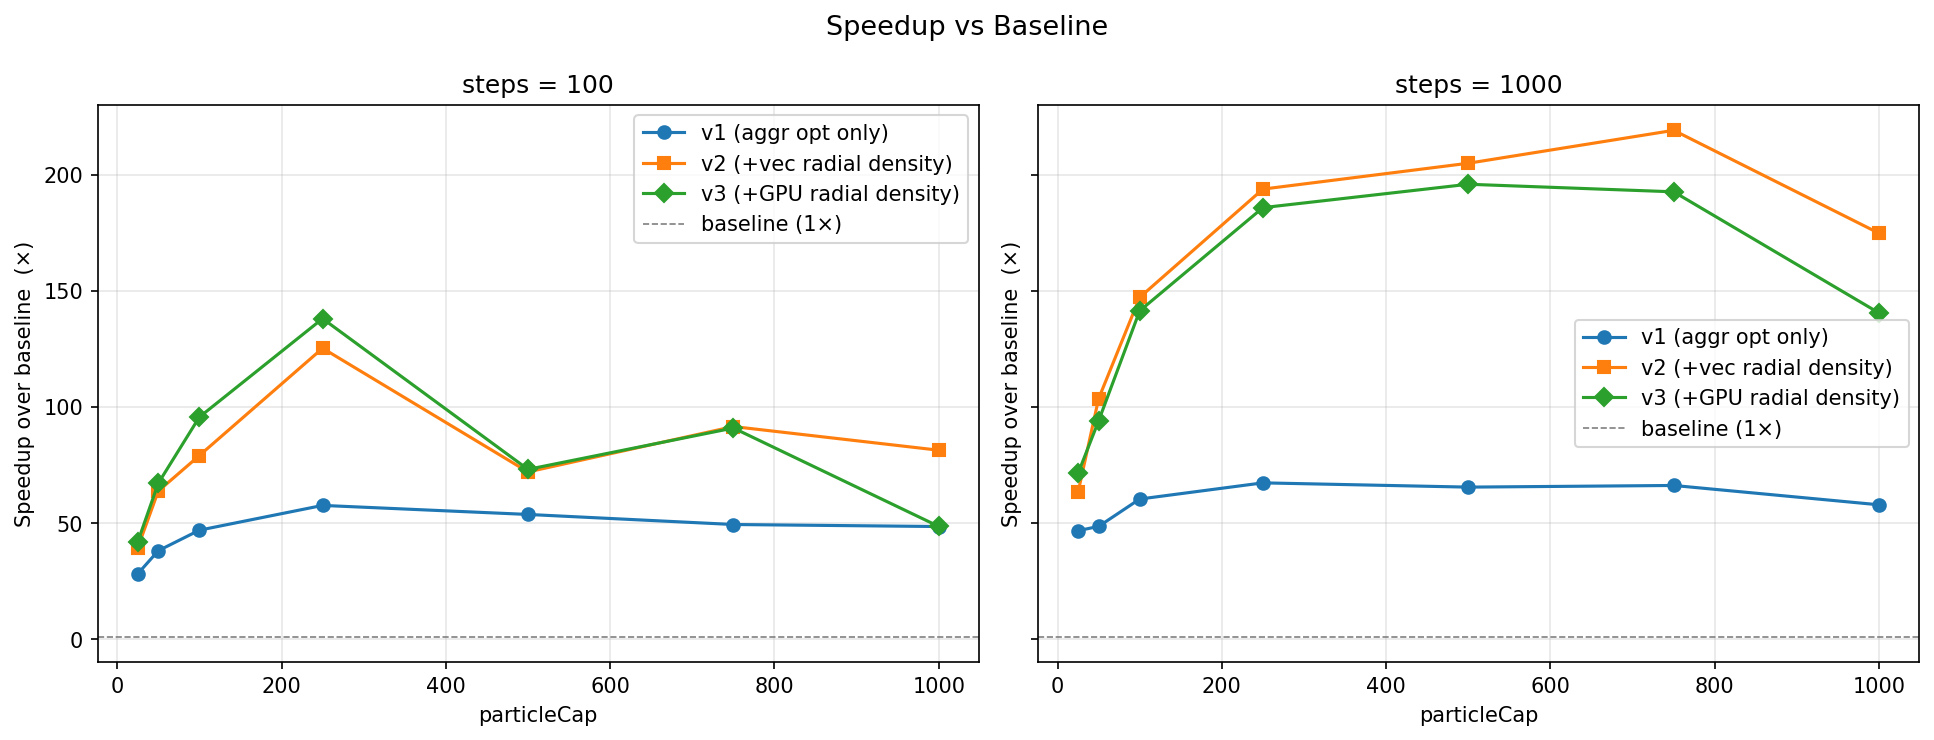
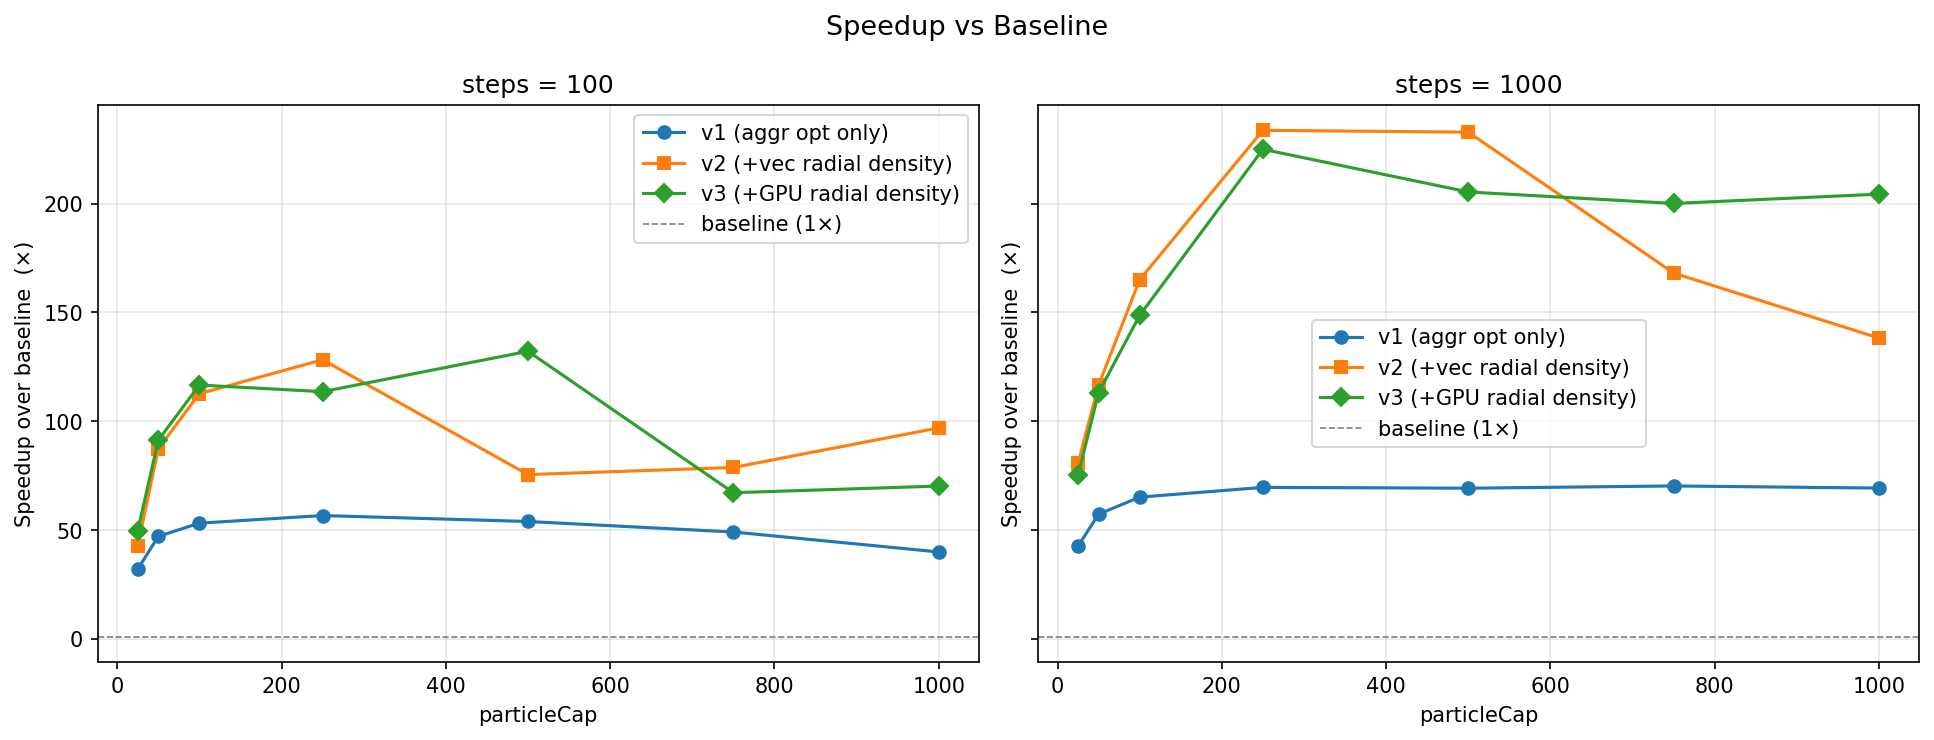
Probably last version, got good results for th GPU

diff --git a/optimized_code/DLA2DAggregate_optimized_v3.py b/optimized_code/DLA2DAggregate_optimized_v3.py
@@ -1,11 +1,13 @@
 import numpy as np
 import time
-import optimization_pybind11 as opt_cpp
 import cupy as cp
 
 length = 1250
 movements = np.array([[1, 0], [-1, 0], [0, 1], [0, -1]])
+movements_cp = cp.array(movements)
 radiusDensity = np.linspace(2, 90, 10)
+
+
 
 _CIRCLE_MASKS = []
 for _r in radiusDensity:
@@ -17,19 +19,24 @@ _MAX_RADIUS = int(radiusDensity[-1])  # = 90; used as pad width
 
 
 def initialise(length, movements):
-    lattice = np.zeros((length + 1, length + 1))
-    initialSeed = [length / 2, length / 2]
-    lattice[int(initialSeed[0]), int(initialSeed[1])] = 1
-    stickyInitial = np.nonzero(lattice)
-    stickySites = []
+    movements_cp = cp.array(movements)
+    
+    lattice = cp.zeros((length + 1, length + 1))
+    initialSeed = [length // 2, length // 2]
+    lattice[initialSeed[0], initialSeed[1]] = 1
+    
+    stickyInitial = cp.nonzero(lattice)
+    r0 = int(stickyInitial[0][0].get())
+    c0 = int(stickyInitial[1][0].get())
+    
+    stickyLattice = cp.zeros((length + 1, length + 1))
     for n in range(4):
-        stickySites.append(
-            (stickyInitial[0][0], stickyInitial[1][0]) + movements[n]
-        )
-    stickyLattice = np.zeros((length + 1, length + 1))
-    for n in range(4):
-        stickyLattice[stickySites[n][0], stickySites[n][1]] = 1
+        dr, dc = int(movements[n][0]), int(movements[n][1])
+        nr, nc = r0 + dr, c0 + dc
+        stickyLattice[nr, nc] = 1
+    
     return lattice, stickyLattice
+
 
 def pick_starting_position(radius):
     startingPosition = np.zeros(2)
@@ -42,92 +49,93 @@ def pick_starting_position(radius):
     return startingPosition
 
 
-def generate_paths_gpu(n_walkers, steps, startingPositions):
-    directions = cp.random.randint(0, 4, (n_walkers, steps - 1))
-    step_vectors = cp.asarray(movements)[directions]  # (n_walkers, steps-1, 2)
-    paths = cp.empty((n_walkers, steps, 2), dtype=cp.int32)
-    paths[:, 0, :] = cp.asarray(startingPositions)
-    paths[:, 1:, :] = startingPositions[:, None, :] + cp.cumsum(step_vectors, axis=1)
-    return paths  # stays on GPU
-
-def generate_path(steps, startingPosition):
-    direction = np.random.choice(4, steps - 1)
-    stepVectors = movements[direction]
-    path = np.empty((steps, 2))
-    path[0] = startingPosition
-    path[1:] = startingPosition + np.cumsum(stepVectors, axis=0)
+def generate_path_gpu(steps, startingPosition):
+    direction = cp.random.randint(0, 4, steps - 1)
+    stepVectors = movements_cp[direction]
+    start = cp.array(startingPosition)
+    path = cp.empty((steps, 2))
+    path[0] = start
+    path[1:] = start + cp.cumsum(stepVectors, axis=0)
     return path
 
 
 def particle_collision(collisionIdx, path, lattice, stickyLattice,
                        particleNumber, occupiedPositions):
-    cr, cc = int(path[collisionIdx, 0]), int(path[collisionIdx, 1])
+    cr = int(path[collisionIdx, 0].get())
+    cc = int(path[collisionIdx, 1].get())
     lattice[cr, cc] = particleNumber + 1
     occupiedPositions.add((cr, cc))
-    maxIdx = length
     for dr, dc in movements:
-        nr, nc = cr + dr, cc + dc
-        if (0 <= nr <= maxIdx and 0 <= nc <= maxIdx
-                and (nr, nc) not in occupiedPositions):
+        nr, nc = cr + int(dr), cc + int(dc)
+        if 0 <= nr <= length and 0 <= nc <= length and (nr, nc) not in occupiedPositions:
             stickyLattice[nr, nc] = 1
     stickyLattice[cr, cc] = 0
     return lattice, stickyLattice
 
-stickyLattice_gpu = cp.asarray(stickyLattice)
-
-def check_collisions_gpu(paths_gpu, stickyLattice_gpu, maxIdx):
-    rows = cp.clip(paths_gpu[:, :, 0], 0, maxIdx)
-    cols = cp.clip(paths_gpu[:, :, 1], 0, maxIdx)
-    hits = stickyLattice_gpu[rows, cols] == 1  # (n_walkers, steps)
-    first_hits = cp.argmax(hits, axis=1)        # first collision per walker
-    hit_mask = hits.any(axis=1)                 # which walkers actually hit
-    return first_hits, hit_mask
-
 
 def lattice_radius_check(occupiedPositions, length, radius, killRadius):
     center = length / 2
-    positions = cp.array(list(occupiedPositions))
-    distances = cp.sqrt(
+    positions = np.array(list(occupiedPositions))
+    distances = np.sqrt(
         (positions[:, 0] - center) ** 2 + (positions[:, 1] - center) ** 2
     )
-    latticeRadiusMax = float(distances.max())
+    latticeRadiusMax = distances.max()
     if latticeRadiusMax > radius:
-        killRadius = float(latticeRadiusMax * 2)
-        radius = float(latticeRadiusMax * 1.5)
+        radius = latticeRadiusMax * 1.5
+        killRadius = latticeRadiusMax * 2
     return latticeRadiusMax, radius, killRadius
 
 
 def kill_check(steps, path, length, startingPosition, moving, killRadius):
-    killCheck = np.sqrt(
+    killCheck = cp.sqrt(
         ((path[:, 0] - length / 2) ** 2) + ((path[:, 1] - length / 2) ** 2)
     )
-    toKill = np.any(killCheck > killRadius)
+    toKill = bool(cp.any(killCheck > killRadius))
     if toKill:
         return 1, 0, startingPosition
-    return 0, moving, path[-1]
+    return 0, moving, path[-1].get()
 
+def _radial_density_vectorized(lattice, particleCoords, particleCap):
+    """
+    Opt-4 + Opt-5: fully vectorized radial density C(r).
 
-import cupy as cp
+    Opt-4 – Sub-lattice extraction
+        Pad the lattice once by _MAX_RADIUS so every 2-D slice is always
+        in-bounds. Inside the loop, extract each sub-lattice with a single
+        2-D NumPy slice instead of a per-row Python loop.
 
-# Move precomputed masks to GPU once at startup
-_CIRCLE_MASKS_GPU = [cp.asarray(m) for m in _CIRCLE_MASKS]
+    Opt-5 – Circle counting
+        Apply the pre-computed boolean mask directly to the sub-array and
+        count non-zero elements with np.count_nonzero, eliminating both the
+        coordinate-copy loop and the per-element counting loop.
+    """
 
-def _radial_density_gpu(lattice, particleCoords, particleCap):
-    padded = cp.pad(cp.asarray(lattice), _MAX_RADIUS, mode='constant')
-    filledDensityStore = cp.zeros((10, particleCap))
+    padded = np.pad(lattice, _MAX_RADIUS, mode='constant', constant_values=0)
+
+    filledDensityStore = np.zeros((10, particleCap))
 
     for particle in range(particleCap - 1):
         pr = int(particleCoords[particle, 0]) + _MAX_RADIUS
         pc = int(particleCoords[particle, 1]) + _MAX_RADIUS
+
+        filledDensity = np.zeros(10)
         for width in range(10):
             rc   = int(radiusDensity[width])
-            mask = _CIRCLE_MASKS_GPU[width]
-            sub  = padded[pr - rc: pr + rc + 1, pc - rc: pc + rc + 1]
-            total = int(mask.sum())
-            filled = int(cp.count_nonzero(sub[mask]))
-            filledDensityStore[width, particle] = filled / total if total > 0 else 0.0
+            mask = _CIRCLE_MASKS[width]
 
-    return cp.asnumpy(filledDensityStore.mean(axis=1)), cp.asnumpy(filledDensityStore)
+            sub = padded[pr - rc: pr + rc + 1,
+                         pc - rc: pc + rc + 1]
+
+            values = sub[mask]
+            filled = int(np.count_nonzero(values))
+            total = len(values)
+            filledDensity[width] = filled / total if total > 0 else 0.0
+
+        filledDensityStore[:, particle] = filledDensity
+
+    filledDensityMean = filledDensityStore.mean(axis=1)
+    return filledDensityMean, filledDensityStore
+
 
 def main(particleCap, steps):
     t0 = time.time()
@@ -137,7 +145,7 @@ def main(particleCap, steps):
     latticeRadiusData = []
     particleNumber = 1
     kill       = 1
-    radius     = 15.0
+    radius     = 15
     killRadius = radius * 2
     moving     = 1
     maxIdx     = length
@@ -149,22 +157,23 @@ def main(particleCap, steps):
         kill   = 0
 
         while moving:
-            path = generate_path(steps, startingPosition)
+            path = generate_path_gpu(steps, startingPosition)
 
-            rows  = path[:, 0].astype(int)
-            cols  = path[:, 1].astype(int)
-            valid = ((rows >= 0) & (rows <= maxIdx) &
-                     (cols >= 0) & (cols <= maxIdx))
-            safeRows = np.clip(rows, 0, maxIdx)
-            safeCols = np.clip(cols, 0, maxIdx)
-            logicCheck = np.zeros(steps, dtype=bool)
-            logicCheck[valid] = (
-                stickyLattice[safeRows[valid], safeCols[valid]] == 1
-            )
-            hitIndices = np.nonzero(logicCheck)[0]
+            rows= cp.array(path[:, 0].astype(int))
+            cols= cp.array(path[:, 1].astype(int))
+            valid= ((rows >= 0) & (rows <= maxIdx) &
+                        (cols >= 0) & (cols <= maxIdx))
+
+            safeRows = cp.clip(rows, 0, maxIdx)
+            safeCols = cp.clip(cols, 0, maxIdx)
+
+            logicCheck= cp.zeros(steps, dtype=bool)
+            logicCheck[valid]= (stickyLattice[safeRows[valid], safeCols[valid]] == 1)
+
+            hitIndices = cp.nonzero(logicCheck)[0]
 
             if len(hitIndices) > 0:
-                collisionIdx = hitIndices[0]
+                collisionIdx = int(hitIndices[0].get())
                 lattice, stickyLattice = particle_collision(
                     collisionIdx, path, lattice, stickyLattice,
                     particleNumber, occupiedPositions
@@ -185,13 +194,14 @@ def main(particleCap, steps):
     print(f'Aggregation finished in {round((t1 - t0) / 60, 2)} minutes.')
 
     tCorrelation1 = time.time()
-    particlePositions = np.nonzero(lattice)
-    particleCoords    = np.zeros((particleCap, 2))
-    particleCoords[:, 0] = particlePositions[0][:]
-    particleCoords[:, 1] = particlePositions[1][:]
 
-    filledDensityMean, _ = _radial_density_gpu(
-        lattice, particleCoords, particleCap
+    particlePositions = cp.nonzero(lattice)
+    particleCoords = np.zeros((particleCap, 2))
+    particleCoords[:, 0] = particlePositions[0][:].get()
+    particleCoords[:, 1] = particlePositions[1][:].get()
+
+    filledDensityMean, _ = _radial_density_vectorized(
+        lattice.get(), particleCoords, particleCap
     )
 
     tCorrelation2 = time.time()
@@ -201,4 +211,4 @@ def main(particleCap, steps):
 
 
 if __name__ == '__main__':
-    main(particleCap=10001, steps=1000)
+    main(particleCap=1001, steps=10)

diff --git a/report.md b/report.md
@@ -379,7 +379,7 @@ Python interpreter dispatch on every element.
 ---
 
 ### Pybind11 Optimization
-We decided to integrate pybind11 in order to make the code faster. We failed. We managed to get the second for loop (the one that analyses the density), and translate it into CPP. This approach is pretty nice, as we can reason about the places in memory that we should be putting every data type. While operations on vectors cannot be beat easily by numpy (as a programmer will not do those optimizations than 10 expert HPC programmers that wrote numpy), complex operations on vectors, dividing them in multiple segments, doing strange operations, having multiple if statements based on indexes. These operations might be better done in CPP than in python in order to analyze the code and be able to reason if the results are not expected. At the same time, pybind11 has the posibility of being paralelized on GPU using CUDA.
+We decided to integrate pybind11 in order to make the code faster. We failed. We managed to get the second for loop (the one that analyses the density), and translate it into CPP. This approach is pretty nice, as we can reason about the places in memory that we should be putting every data type. While operations on vectors cannot be beat easily by numpy (as a programmer will not do those optimizations than 10 expert HPC programmers that wrote numpy), complex operations on vectors, dividing them in multiple segments, doing strange operations, having multiple if statements based on indexes. These operations might be better done in CPP than in python in order to analyze the code and be able to reason if the results are not expected. At the same time, pybind11 has the posibility of being paralelized on GPU using CUDA. To mention, this optimization was done for the density computing, hence when we compared the results in time, the results were strictly for that function, and now the whole code. The code that compares is in 'optimized_code/DLA2DAggregate_compare_pybind'. It only imports the library and runs.
 
 A small snippet of some pybind11 code:
 
@@ -426,6 +426,32 @@ and as we can see
 ![htop](profile_code/htop_multiproc.png)
 
 The cores are working overtime in order to do the computation. And we see the 10 "cores" working.
+
+### GPU optimization
+As a last optimization that we decided to test, was using the GPU's. We decided to replace the numpy library in multiple instances with the cupy library, so that we do the operations on the gpu. Due to the iterative nature of the code (we are taking particles one at a time and trying to send them to the lattice), only a fraction of the logic could be pararelized. We thought of a solution (of creating multiple particles, sending them all at one to the lattice and having them modify the values in the grid once they hit), but we didn't manage to finish in time as the code was complex. Most of the optimizations constituted of getting vectors, and doing all their operations on gpu's, and the second that they enterred a cpu part (something that had to be done iterativelly), get just translaed it back to the CPU using the default operations (.get()).This means that we had a very big overhead translating from the GPU to the CPU. The biggest operation was moving the path generation to the gpu.
+
+``` py
+def generate_path_gpu(steps, startingPosition):
+    direction = cp.random.randint(0, 4, steps - 1)
+    stepVectors = movements_cp[direction]
+    start= cp.array(startingPosition)
+    path= cp.empty((steps, 2))
+    path[0]= start
+    path[1:]= start + cp.cumsum(stepVectors, axis=0)
+    return path
+```
+
+Over here, generating random numbers, and then aggregating the values in the path is a heavy operation. It can be moved to the gpu. Afterwards, we can check the colitsion with the lattice (which is also located i nthe gpu), in order to find the first location it hit. This is the whole workflow for the gpu operations, computing the path and finding the first place that it intersects the lattice.
+
+``` py
+logicCheck= cp.zeros(steps, dtype=bool)
+logicCheck[valid]= (stickyLattice[safeRows[valid], safeCols[valid]] == 1)
+
+hitIndices = cp.nonzero(logicCheck)[0]
+```
+
+And afterwards, we have to translate the indice back to the cpu to be used to add the particle to the fractal.
+
 
 ## Performance Results (Baseline vs v1 vs v2)
 
@@ -544,6 +570,17 @@ We have around 5 times faster code. For an embarasingly parrallel problem, while
 After second simulation:
 Around 6-7 times faster. Expectable on a machine where you have mnultiple processes doing jobs in each cpu. The other processes are not computationally expensive, but even the simple act of switching context is too heavy.
 
+### GPU Optimization
+The gpu optimization was disappointing
+
+(On a first run where the CPU dominated the GPU optimization)
+As we can see, although the operations for generating the path were paralelized on the gpu, they are still faster on the CPU. That would mean that the overhead of sending the gpu data back to the cpu is too big, or we are doing these type of operations too often. Another important aspect is the number of steps that we are doing. We tested using 100 and 1000 steps, in order to force the GPU to use all it's cores. For the 100 steps iterations, it is expectable to have a bad result, as the cpu can through vectorization process 4 items at once, and it might be 25 times faster than the GPU (a CPU core vs a GPU core).
+
+![gpu optimization](optimized_code/benchmark_v3_speedup.png)
+
+On a second run, we get rather good results. The path being very big meant that all the GPU cores could work
+
+
 ## Critical Reflection
 
 **v1's speedup of 44–68× is larger than the ~1.5× predicted from Amdahl's
@@ -567,3 +604,10 @@ new dimension of improvement such as parallelism, which is left to Student 3.
 baseline, v1, and v2 alike. The segmentation granularity of the random walk
 has no meaningful effect on total computation regardless of which optimizations
 are applied.
+
+**Shouldn't use gpu for small parts of the code**: Using GPU to send data back and forth kills all the performance. Even though an operation can be pararelized on tousands of cores, if we are making it and sending the result tousands of times, we will loose performance. But if the vectors that we are doing the operations are very large, gpu could take the lead (just have every core not waste time)
+
+## AI Usage
+1. AI was used for the pybind11 optimization in order to detect if there were any logic bugs. It helped me understand the fact that I was wrapping around the grid when checking the radius, which was bad logic.
+2. Clause was also used to understand some bugs and the workflow for the GPU optimization. I was missing some points where the data had to be translated back to the CPU to be used by numpy.
+3. The benchmark v3 was done with the help of GPT. It is only doing plotting, calling subprocesses for the 3 version of the code and passing variables, aggregating the results and plotting. Although it could have been done completelly by hand, a simple matplotlib mistake would mean hours of debugging. It was verified by looking and the code and result
